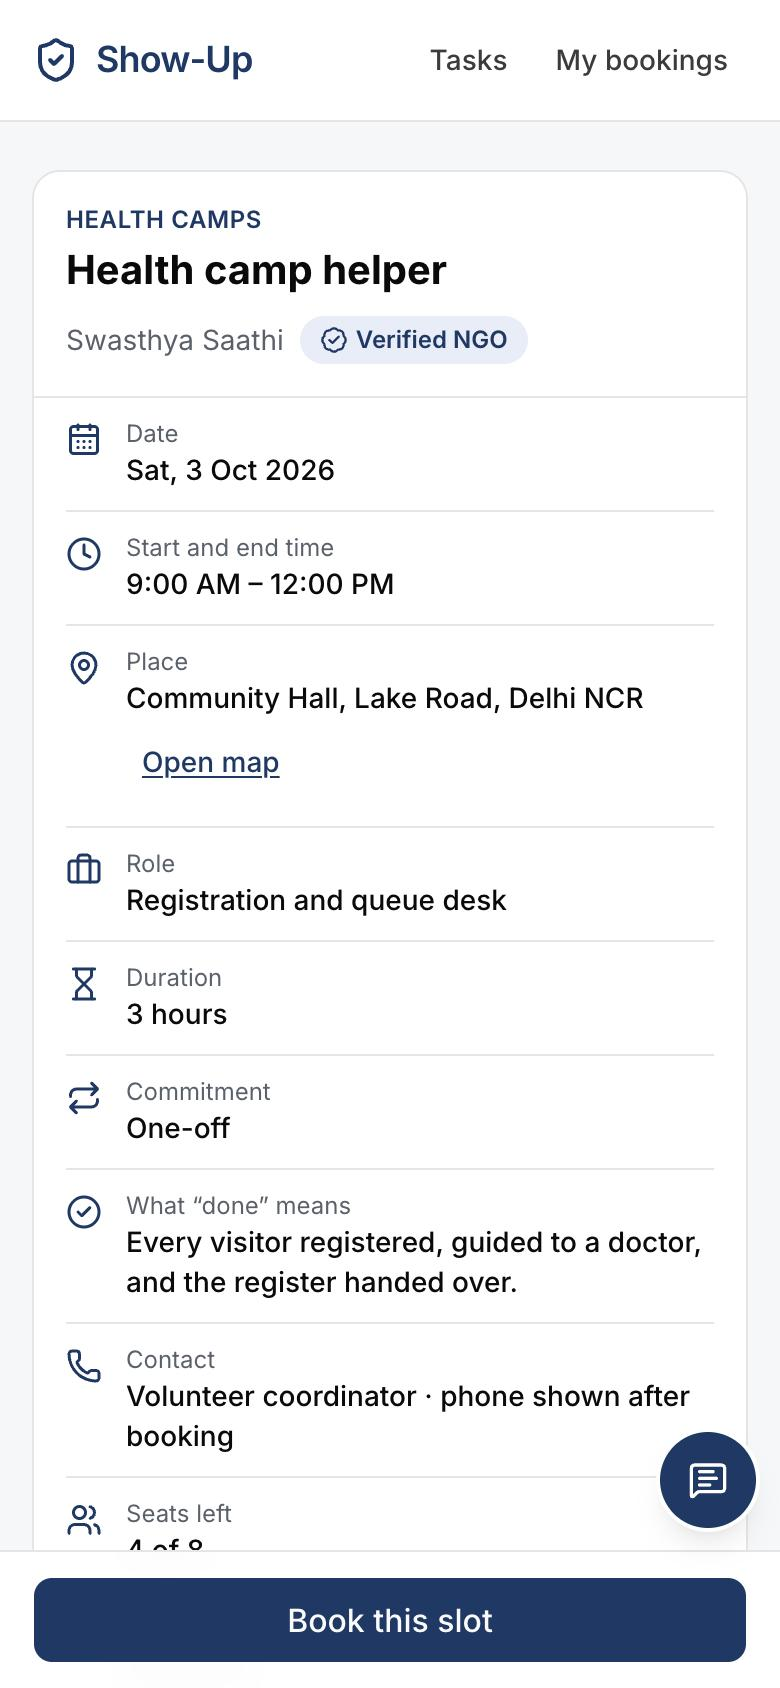
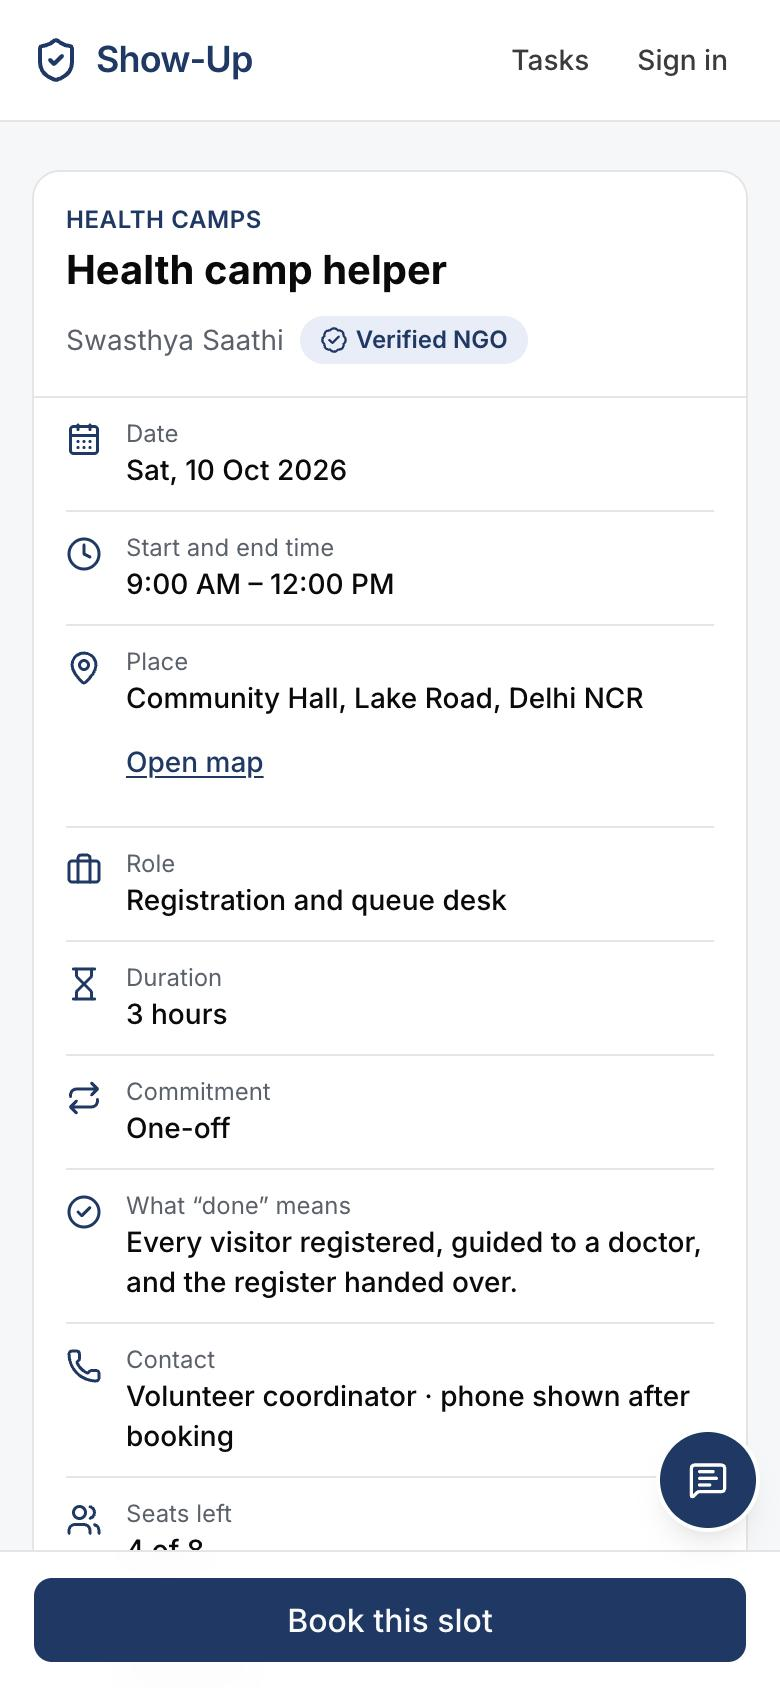
MVP screenshots, screenshot index, metrics copy fix

diff --git a/app/admin/metrics/page.tsx b/app/admin/metrics/page.tsx
@@ -51,7 +51,7 @@ export default async function MetricsPage() {
             (attended + released at least 24 hours before) ÷ bookings for past events, excluding “not recorded”. Target ≥{m.target}%. Baseline about {m.baseline}%.
           </p>
           <p className="mt-2 text-sm">
-            Sample so far: <strong>{m.events.length}</strong> {m.events.length === 1 ? "event" : "events"} · <strong>{m.ngoCount}</strong> {m.ngoCount === 1 ? "NGO" : "NGOs"} · <strong>{m.overall.total}</strong> bookings
+            Sample so far: <strong>{m.events.length}</strong> {m.events.length === 1 ? "event" : "events"} · <strong>{m.ngoCount}</strong> {m.ngoCount === 1 ? "NGO" : "NGOs"} · <strong>{m.overall.total}</strong> {m.overall.total === 1 ? "booking" : "bookings"}
             <span className="text-muted-foreground"> (aim: 3+ events, 2+ NGOs, about 40 bookings)</span>
           </p>
         </div>

diff --git a/docs/screenshots/README.md b/docs/screenshots/README.md
@@ -1,0 +1,42 @@
+# Screenshots (PRD §19.2)
+
+Captured at 390px wide from the local builds on 2 Oct 2026. All data shown is fictional sample or test data.
+
+## Prototype (`APP_MODE=prototype`)
+
+| Screen | File |
+|---|---|
+| 1. Verify once: phone | [01a-verify-once-phone.jpg](prototype/01a-verify-once-phone.jpg) |
+| 1. Verify once: ID | [01b-verify-once-id.jpg](prototype/01b-verify-once-id.jpg) |
+| 2. Feed with filters | [02-feed-with-filters.jpg](prototype/02-feed-with-filters.jpg) |
+| 3. Task card | [03a-task-card.jpg](prototype/03a-task-card.jpg) |
+| 3. NGO profile panel | [03b-ngo-profile.jpg](prototype/03b-ngo-profile.jpg) |
+| 4. Booking sheet | [04a-booking-sheet.jpg](prototype/04a-booking-sheet.jpg) |
+| 4. 48-hour confirmation | [04b-48-hour-confirmation.jpg](prototype/04b-48-hour-confirmation.jpg) |
+| 4. One-tap release | [04c-one-tap-release.jpg](prototype/04c-one-tap-release.jpg) |
+| 4. Standby switch | [04d-standby-switch.jpg](prototype/04d-standby-switch.jpg) |
+| 5. My profile | [05-my-profile.jpg](prototype/05-my-profile.jpg) |
+| 6. Re-engagement nudge | [06-re-engagement-nudge.jpg](prototype/06-re-engagement-nudge.jpg) |
+| 7. Task template | [07-task-template.jpg](prototype/07-task-template.jpg) |
+| 8. Applicant profiles | [08-applicant-profiles.jpg](prototype/08-applicant-profiles.jpg) |
+| 9. Turnout view | [09a-turnout-view.jpg](prototype/09a-turnout-view.jpg) |
+| 9. Standby cover and planning widget | [09b-standby-cover.jpg](prototype/09b-standby-cover.jpg) |
+| Test Lab start screen | [10-test-lab-start.jpg](prototype/10-test-lab-start.jpg) |
+| Message preview | [11-message-preview.jpg](prototype/11-message-preview.jpg) |
+
+## MVP1 (`APP_MODE=mvp`)
+
+| Screen | File |
+|---|---|
+| Public task card | [01-public-task-card.jpg](mvp/01-public-task-card.jpg) |
+| Booking sheet | [02-booking-sheet.jpg](mvp/02-booking-sheet.jpg) |
+| 48-hour confirmation | [03a-48-hour-confirmation.jpg](mvp/03a-48-hour-confirmation.jpg) |
+| One-tap release | [03b-one-tap-release.jpg](mvp/03b-one-tap-release.jpg) |
+| NGO turnout view | [04-ngo-turnout-view.jpg](mvp/04-ngo-turnout-view.jpg) |
+| Attendance marking | [05-attendance-marking.jpg](mvp/05-attendance-marking.jpg) |
+| Reliability record | [06-reliability-record.jpg](mvp/06-reliability-record.jpg) |
+| Admin reminders queue | [07-admin-reminders-queue.jpg](mvp/07-admin-reminders-queue.jpg) |
+
+Some files are 390×844 and some 780×1688 (the capture tool saved a few at 2× density). These are viewport
+captures, not full-page ones, and the task template (Screen 7) shows the mobile "Edit" tab; the live preview
+sits under the "Preview" tab on mobile and beside the form on desktop.
